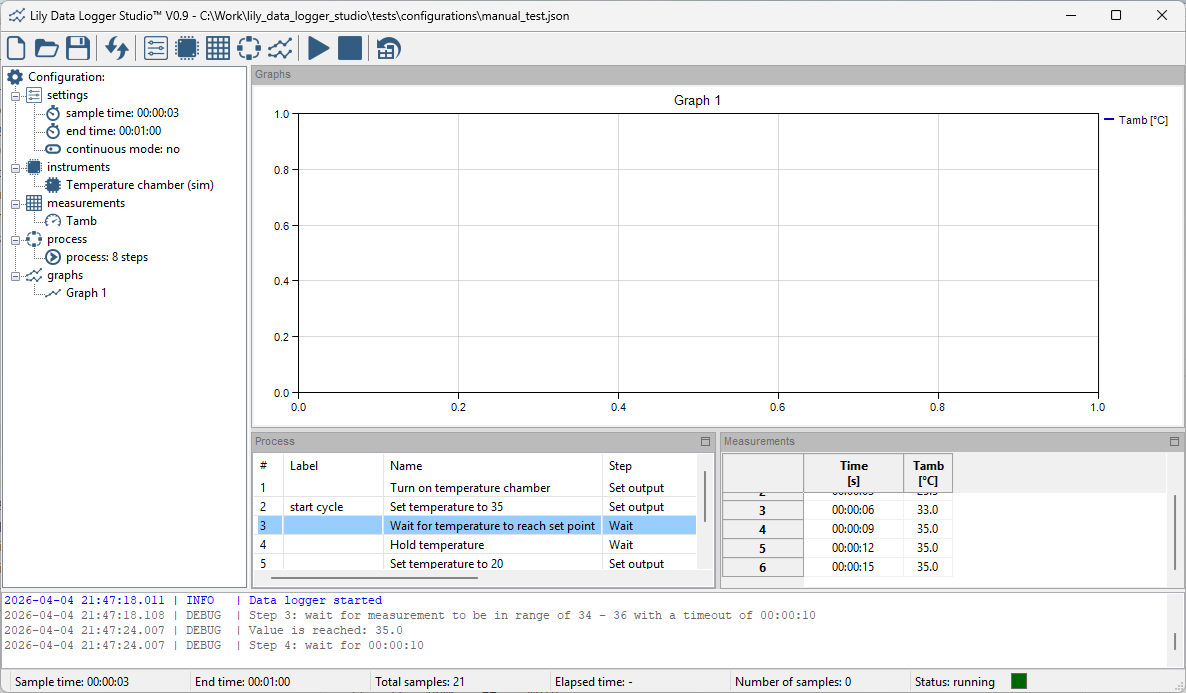
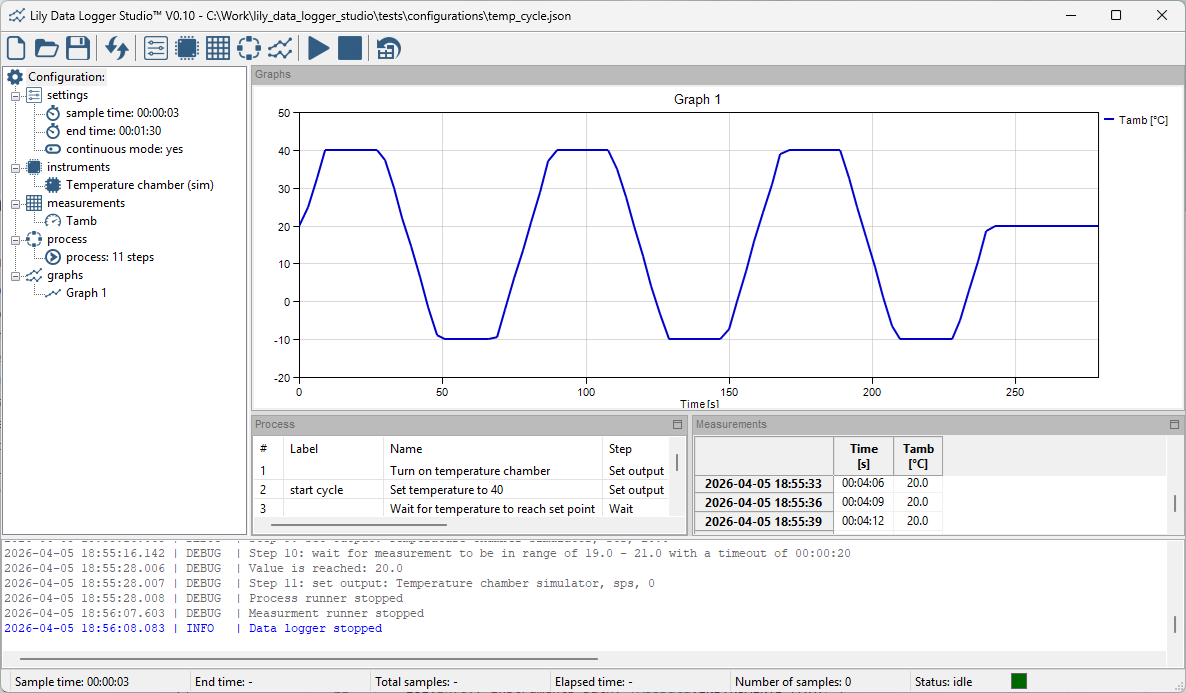
updated readme and screenshot

diff --git a/src/app_data.py b/src/app_data.py
@@ -9,7 +9,7 @@ from src.models.os_specifics import get_user_data_dir
 
 
 APP_NAME = "Lily Data Logger Studio\u2122"   # \u2122 is the trademark symbol
-VERSION = "0.9"
+VERSION = "0.10"
 EXE_NAME = "LilyDataLoggerStudio"
 COMPANY = "LilyTronics"
 DRIVER_TEST_APP_NAME = "Lily Data Logger Studio\u2122 Driver Test"

diff --git a/readme.md b/readme.md
@@ -28,11 +28,11 @@ Release 1.0:
 * Edit process steps for controlling instruments. ✅
 * Edit graphs in the configuration. ✅
 * Show measurements in the data table  ✅
-* Show measurements in graphs.
+* Show measurements in graphs. ✅
 * Show live updates of the process. ✅
-* Manage test runs (show, delete, export)
 * Application for testing created drivers. ✅
 * Templates and a VS code workspace included for creating drivers. ✅
+* Manage test runs (show, delete, export)
 * User manual for data logger and for creating drivers.
 
 Issues or feature requests can be submitted in the issue tracker: https://github.com/LilyTronics/lily_data_logger_studio/issues
